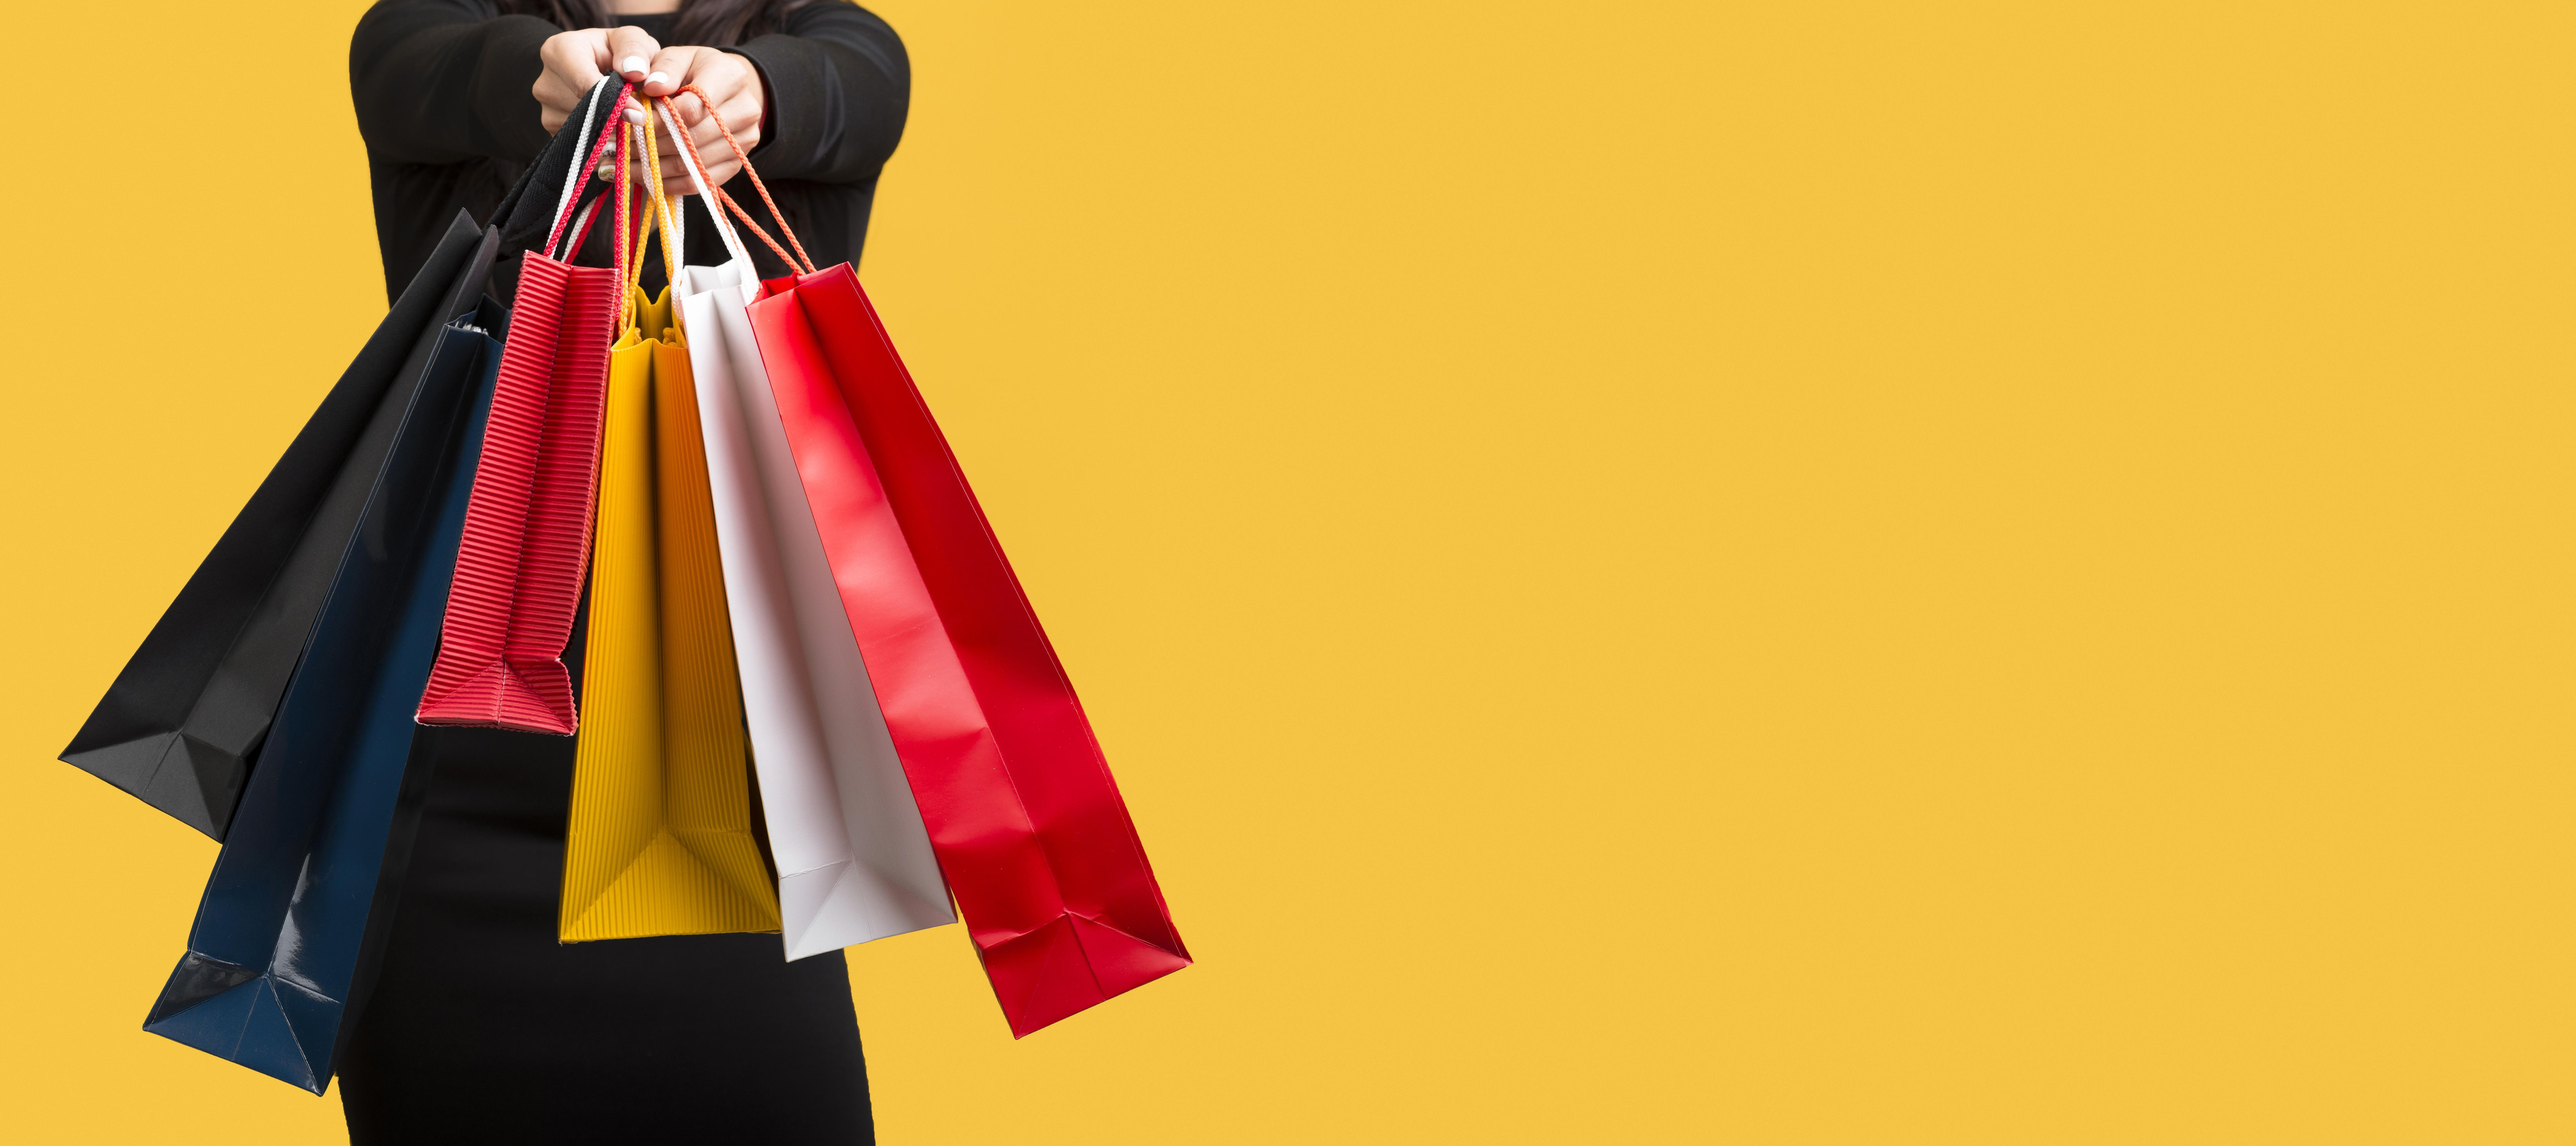
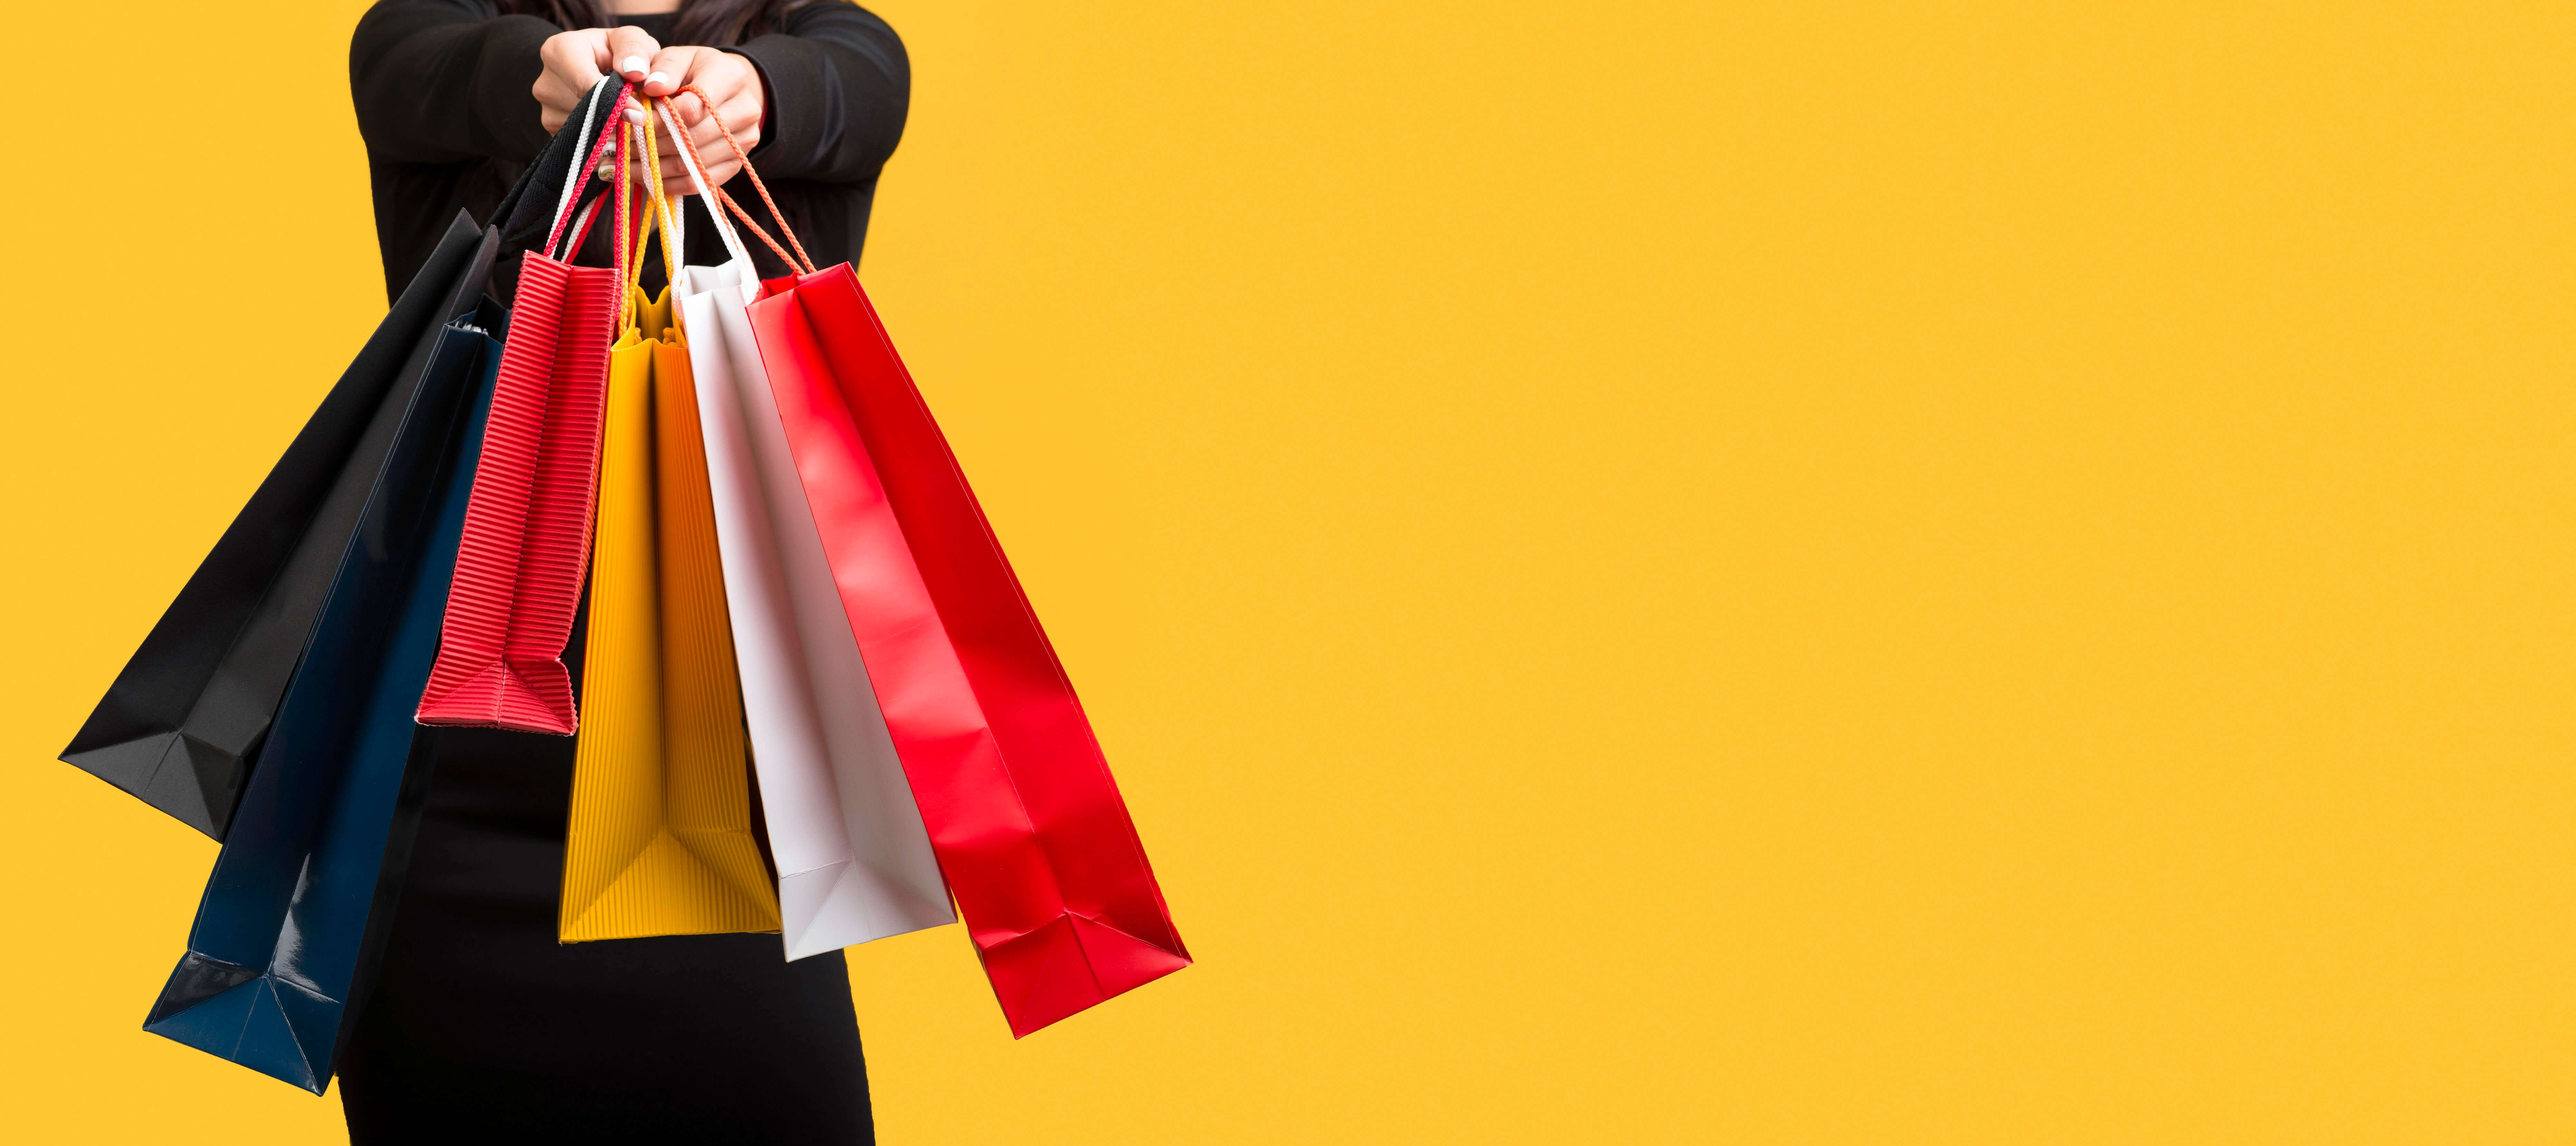
optimized shopping-image

diff --git a/src/app/components/cart/cart.component.html b/src/app/components/cart/cart.component.html
@@ -72,7 +72,7 @@
         cart.
       </p>
       <p>
-        <img class="addtocart" src="/assets/3516853.svg" alt="AddtoCart" />
+        <img class="addtocart" src="assets/3516853.svg" alt="AddtoCart" />
       </p>
       <a
         routerLinkActive="active"
